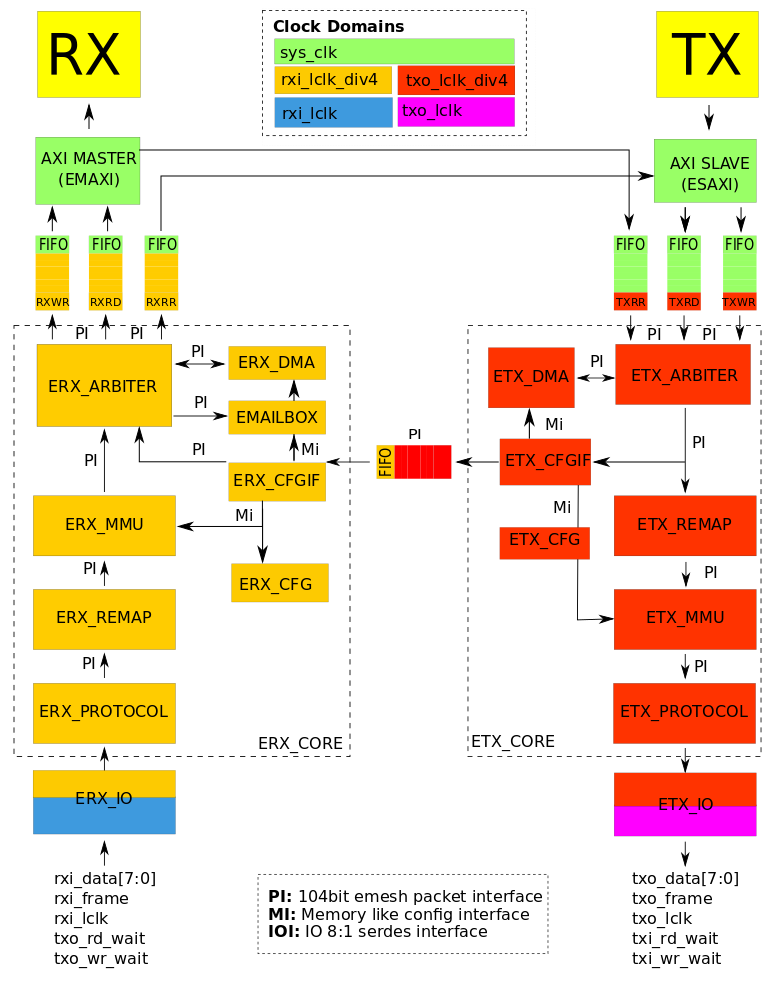
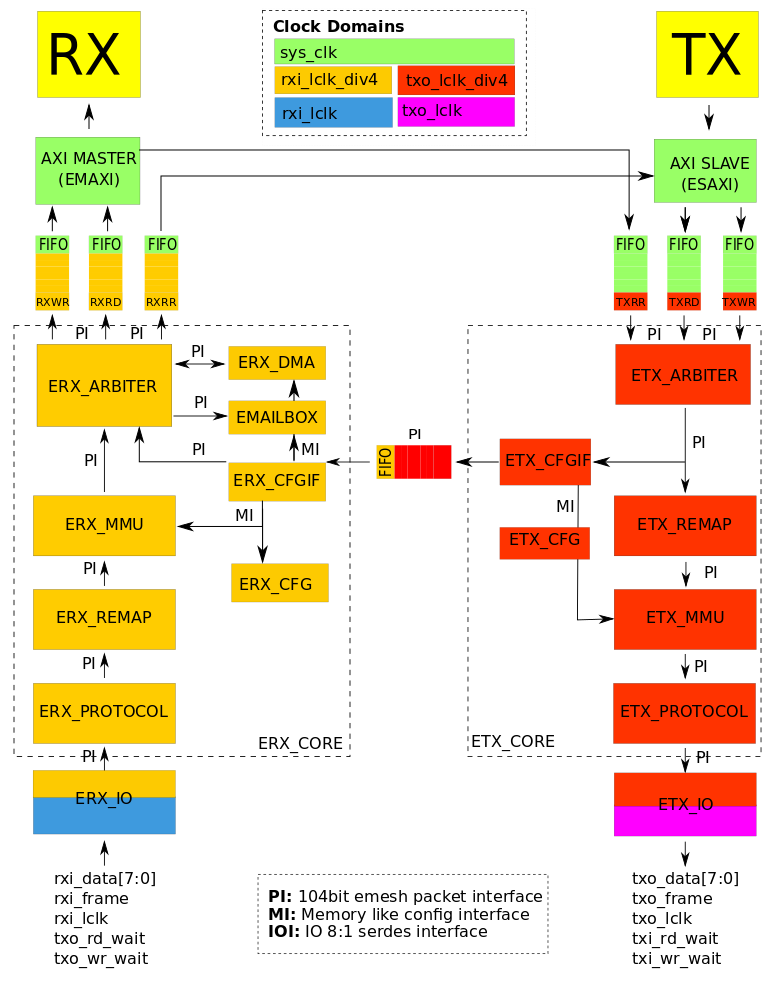
Updating docs -clarifications -removing TX DMA

Changed region(s): [[0.6314, 0.3333, 0.8118, 0.4545], [0.902, 0.7576, 0.932, 0.7879], [0.7216, 0.4848, 0.7516, 0.5152]]

diff --git a/elink/README.md b/elink/README.md
@@ -2,8 +2,17 @@
 
 ELINK INTRODUCTION
 =====================================
-The "elink" is a low-latency/high-speed interface for communicating between FPGAs and ASICs (such as Epiphany). The interface can achieve a peak throughput of 8 Gbit/s (duplex) in modern FPGAs using 24 LVDS signal pairs.  
+The "elink" is a low-latency/high-speed interface for communicating between FPGAs and ASICs (such as EpiphanyIII). The interface can achieve a peak throughput of 8 Gbit/s (duplex) in modern FPGAs using 24 LVDS signal pairs.  
 
+###HOW TO SIMULATE  
+```sh
+$ sudo apt-get install gtkwave iverilog   
+$ git clone https://github.com/parallella/oh.git  
+$ cd oh/elink/dv  
+$ ./run.sh  
+$ gtkwave test.vcd
+
+```
 ###STRUCTURE
 
 ![alt tag](docs/elink.png)
@@ -57,7 +66,7 @@ The default elink communication protocol uses source synchronous clocks, a packe
            _______________________________________________________________
  FRAME   _/                                                        \______ 
                
- DATA   XXXX|B00|B01|B02|B03|B04|B05|B06|B07|B08|B09|B10|B11|B12|B13|B14.
+ DATA   XXXX|B00|B01|B02|B03|B04|B05|B06|B07|B08|B09|B10|B11|B12|B13|B14
 
 ```
            
@@ -142,11 +151,11 @@ s_*               |IO | AXI slave interface
 The following table shows the rough resource usage of the elink synthesized with the xc7z010clg400-1 as a target.
 (as of May 12, 2015)  
 
-Instance             |Module                   |Cells 
----------------------|-------------------------|------
+Instance             |Module                   | FPGA Cells 
+---------------------|-------------------------|------------
   elink              |elink                    |  9809
-  --ecfg_cdc         |fifo_cdc                 |   994
   --eclocks          |eclocks                  |     3
+  --ecfg_cdc         |fifo_cdc                 |   994
   --erx              |erx                      |  5200
   ----erx_core       |erx_core                 |  2450
   ------erx_cfg      |erx_cfg                  |   174
@@ -183,8 +192,8 @@ REGISTER       | AC | ADDRESS | DESCRIPTION
 ---------------|----|---------|------------------
 E_RESET        | -W | 0xF0200 | Soft reset
 E_CLK          | -W | 0xF0204 | Clock configuration
-E_CHIPID       | RW | 0xF0208 | Chip ID to drive to Epiphany pins
-***************|****|*********|********************
+E_CHIPID       | RW | 0xF0208 | Chip ID for Epiphany pins
+***************|****|*********|**************************
 E_VERSION      | RW | 0xF020C | Version number (static)
 ETX_CFG        | RW | 0xF0210 | TX configuration
 ETX_STATUS     | R- | 0xF0214 | TX status
@@ -226,7 +235,7 @@ Reset control register for the elink and Epiphany chip
 FIELD    | DESCRIPTION 
 -------- | --------------------------------------------------
  [0]     | 0: active
-         | 1: resets the elink and Epiphany chip 
+         | 1: resets elink and Epiphany chip 
 
 ###E_CLK (0xF0204) (NOT IMPLEMENTED) 
 Transmit and Epiphany clock settings.
@@ -430,7 +439,6 @@ The current 32-bit address being transferred.
 FIELD    | DESCRIPTION 
 -------- |---------------------------------------------------
  [31:0]  | Current transaction destination address to write to
-
 
 
 ###DMAAUTO0 (0xF0514/0xF0534)
